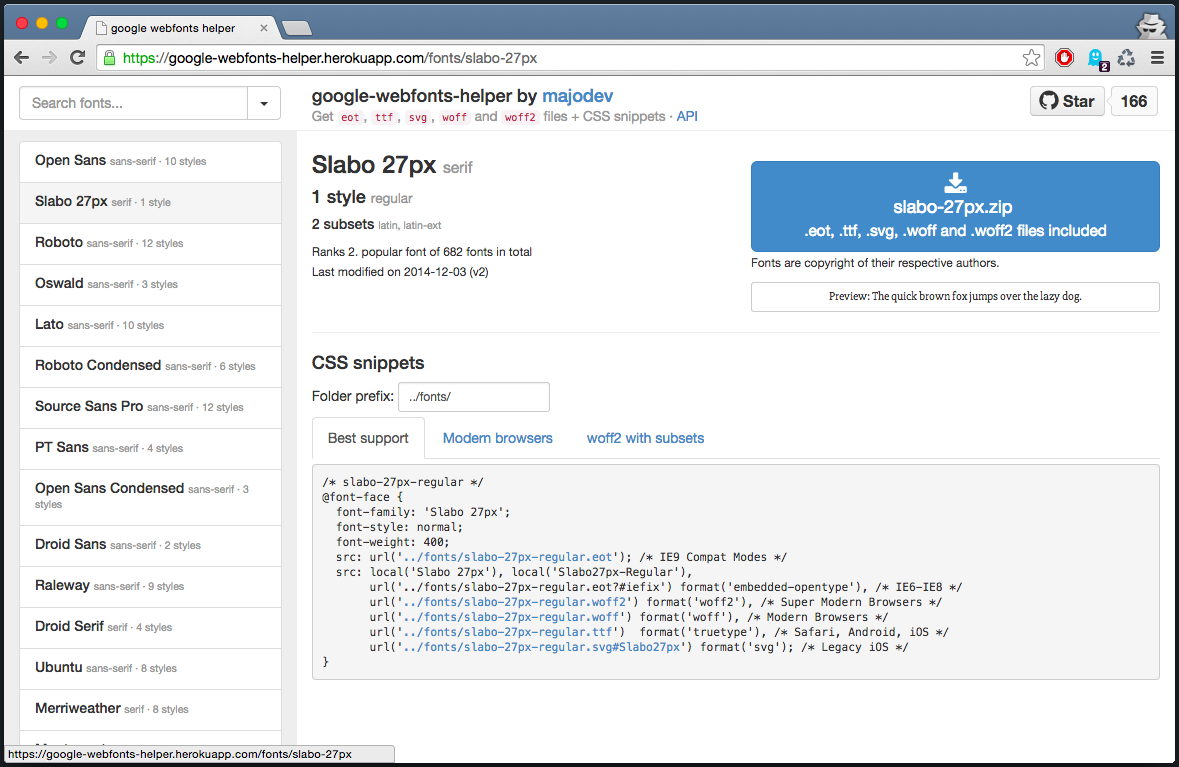
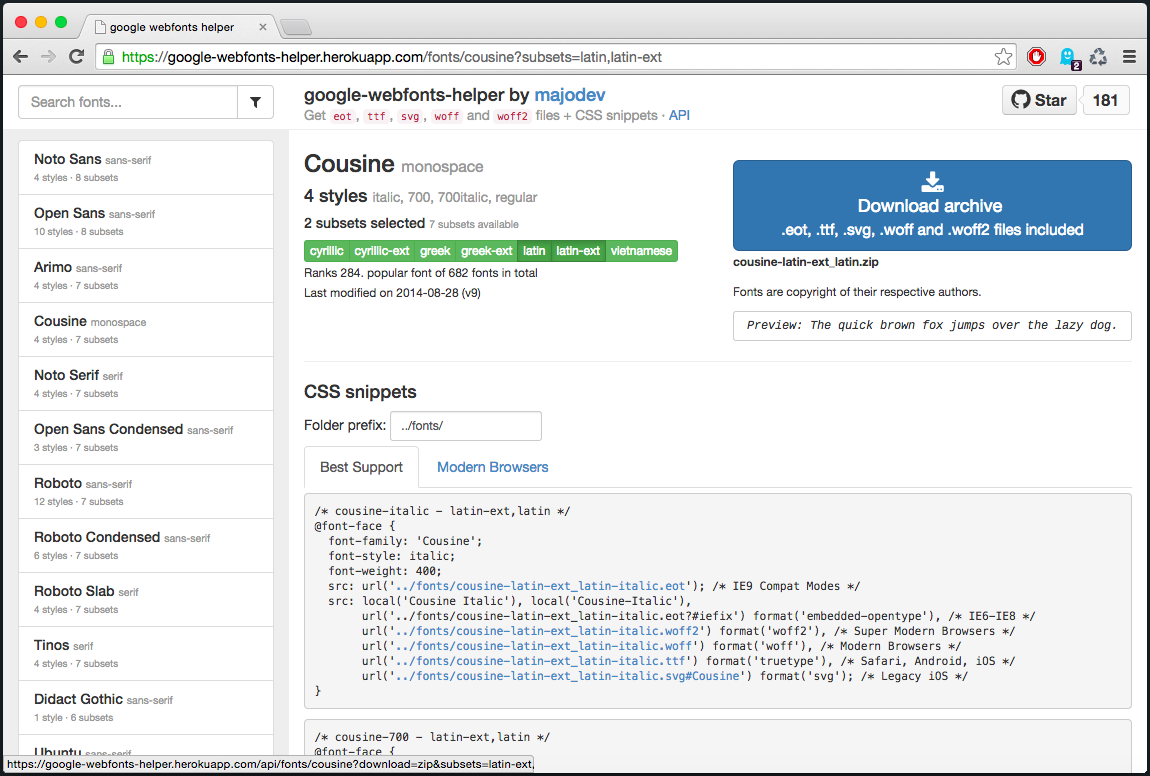
gwfh update

diff --git a/src/notes/google-webfonts-helper/index.md b/src/notes/google-webfonts-helper/index.md
@@ -35,4 +35,6 @@ Please [leave comments on Hackernews](https://news.ycombinator.com/item?id=88023
 
 **EDIT 2014-12-27:** Wow, this project has gone quite popular after submitting it to [Hackernews](https://news.ycombinator.com/item?id=8802395)! 33 stargazers and 35 comments (and rank 7 in the news section at peak time). Thank you!
 
-**EDIT2 2014-12-29:** Seriously, I have not expected so much popularity: 169 stargazers. Thank you so much!
+**EDIT 2014-12-29:** Seriously, I have not expected so much popularity: 169 stargazers. Thank you so much!
+
+**EDIT 2014-12-30:** Font subsets (e.g. `latin`, `latin-ext`, `cyrillic`, ...) are now customizable.
